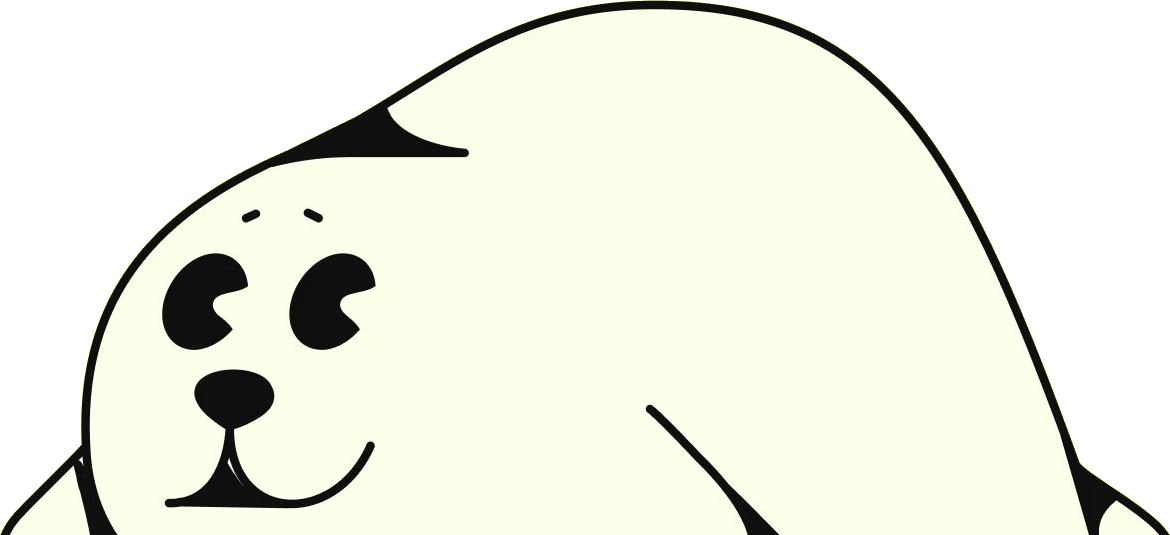
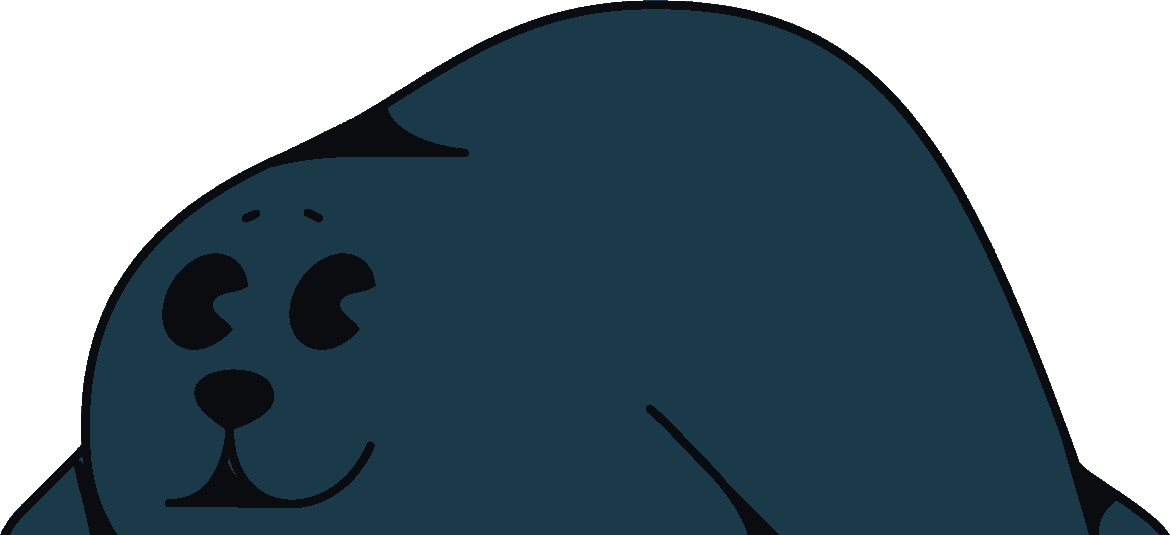
Landing: darken Seal mark to navy so it balances the "Built on" row
The extracted seal mascot was a cream body that grayscaled to near-white,
reading faint next to Walrus's solid W and Enoki's filled monogram. Recolored
the asset only — body → wordmark navy (#1A3A4A), features → near-black — for a
solid, balanced dark mark. Alpha/edges preserved; no other logo touched.

diff --git a/docs/PROGRESS.md b/docs/PROGRESS.md
@@ -1352,3 +1352,7 @@ Blockers: none.
 ## 2026-06-15 — LANDING POLISH: Seal + Enoki marks on "Built on"
 
 Seal/Enoki were bare wordmarks beside Sui's droplet + Walrus's W (unbalanced trust strip). Added two subtle in-brand geometric marks — padlock (Seal = encryption) and key (Enoki = zkLogin identity) — grayscaled to the Fog palette at the same h-4 weight/spacing, so all four read as one set. New assets public/partners/{seal-lock,enoki-key}.svg; BUILT_ON marks wired. No staking/burn/counter (out of scope). Build green; commit b568dcf pushed; deploy --prod → lethe-gold.vercel.app (dpl ...2pym4ahvk). Verified on prod: 4 SVG assets 200, 4 marks render (Sui/Walrus/Seal/Enoki), 0 page overflow at desktop(1280) + 390px, 0 console errors (Playwright). Blockers: none.
+
+## 2026-06-15 — LANDING: balance Seal mark weight in "Built on"
+
+The extracted Seal mascot was a cream/off-white body, so under the row's grayscale(1)+opacity it washed out near-white while Walrus's solid-black W and Enoki's filled monogram stayed dark — Seal read faint/thin, the optical outlier. Recolored the asset only (apps/web/public/partners/seal.png): cream body → wordmark navy #1A3A4A, outline/eyes/nose → near-black #0A0C10, alpha untouched (smooth edges + transparent bg kept). Now a solid dark mark balanced with the other three; face still reads. No code change, no other logo touched. Verified via row screenshot (desktop). Committed + pushed; deploy --prod. Blockers: none.
